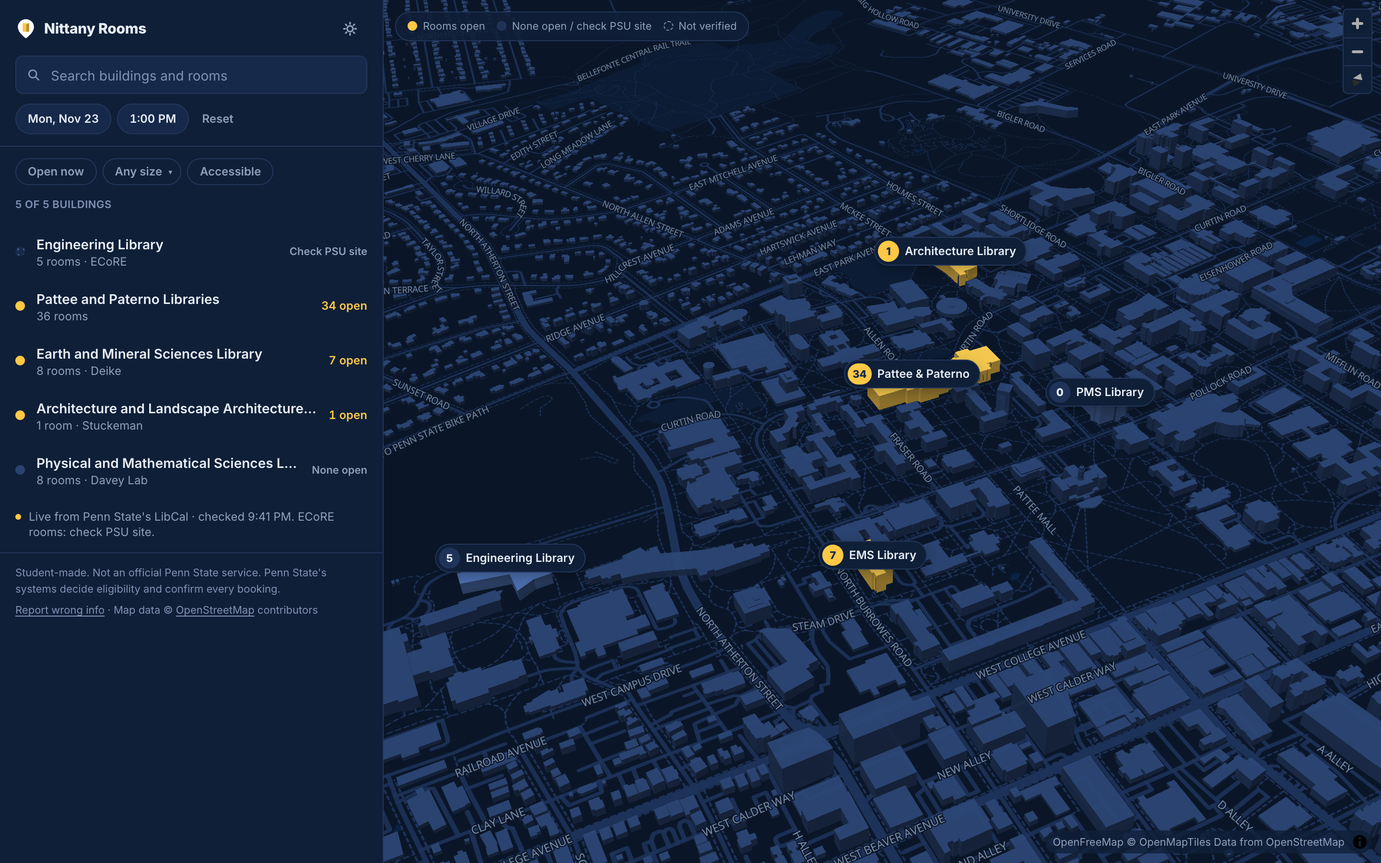
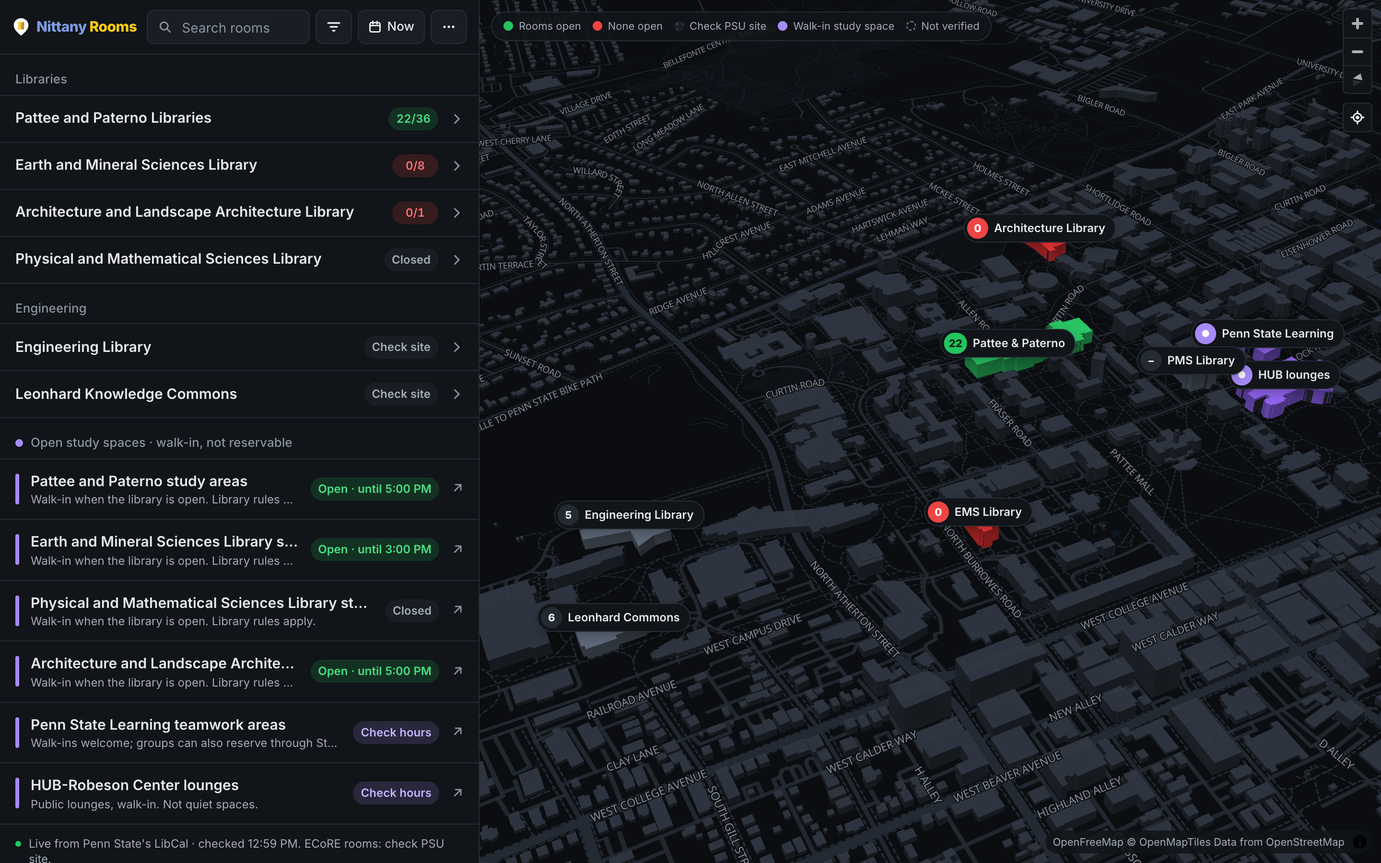
docs: feature tour README and re-rendered v2.1 design screenshots
- Root README: live link, feature tour with screenshots (map, building,
  room, near-me route, filters, date/time, settings, open study spaces,
  light/mobile), coverage table, CI/deploy notes, credits
- Design package: v2.1 sheet (green/red/grey/purple, blue/yellow
  accents, Inter) and 12 app screenshots at 2x with sample data,
  including new filters, date/time, route, settings and study-space
  views; tokens gain the purple study-space color

diff --git a/nittany-rooms-design/html/02-design-system.html b/nittany-rooms-design/html/02-design-system.html
@@ -1,45 +1,52 @@
 <!doctype html>
-<html lang="en" data-theme="dark">
+<html lang="en">
 <head>
 <meta charset="utf-8">
 <meta name="viewport" content="width=device-width, initial-scale=1">
-<title>Nittany Rooms design system v2</title>
+<title>Nittany Rooms design system v2.1</title>
 <style>
 @font-face{font-family:Inter;font-weight:100 900;src:url(../fonts/inter-latin-wght-normal.woff2) format('woff2')}
-:root{--bg:#0A1628;--surface:#0F1F38;--s2:#16294A;--s3:#1F3358;--line:#22365A;--fg:#E8EEF7;--muted:#8FA0BA;--subtle:#7E92B3;
---accent:#FFC845;--ink:#12284C;--accent-text:#FFC845;--accent-border:#FFC845;--occ:#2B4170;--occ-fg:#DCE4F2;--ha:#1F3358;--hb:#2B4170;--da:#3A5280;--db:#16294A;--now:#FF5C93}
-.light{--bg:#F5F7FA;--surface:#FFFFFF;--s2:#F0F3F7;--s3:#E4E9F0;--line:#DCE2EA;--fg:#12284C;--muted:#4F5B6E;--subtle:#5F6B7F;
---accent-text:#6B4700;--accent-border:#C99400;--occ:#12284C;--occ-fg:#FFFFFF;--ha:#E3E7ED;--hb:#CBD2DC;--da:#B8C1CE;--db:#EEF1F5;--now:#C2185B}
+:root{--bg:#0B0D10;--surface:#111418;--s2:#1A1E24;--s3:#242A32;--line:#262C34;--fg:#E7E9EC;--muted:#A3ACB8;--subtle:#8A94A1;
+--accent:#2563EB;--ink:#FFFFFF;--accent-text:#7AA7FF;--accent-soft:rgba(59,130,246,.14);--yellow:#FACC15;--soon:#FACC15;
+--open:#22C55E;--open-soft:rgba(34,197,94,.16);--open-text:#4ADE80;--busy:#EF4444;--busy-soft:rgba(239,68,68,.16);--busy-text:#F87171;
+--space:#A78BFA;--space-soft:rgba(167,139,250,.16);--space-text:#C4B5FD;
+--ha:#1A1E24;--hb:#262C34;--da:#3A414B;--db:#1A1E24;--navy:#7C9BE0;--gold:#FACC15}
+.light{--bg:#F6F7F9;--surface:#FFFFFF;--s2:#F1F3F5;--s3:#E5E8EC;--line:#E2E5E9;--fg:#111418;--muted:#4B5563;--subtle:#5F6874;
+--accent-text:#1D4ED8;--accent-soft:#E8EFFF;--yellow:#EAB308;--soon:#854D0E;--open:#16A34A;--open-soft:#DCFCE7;--open-text:#166534;
+--busy:#DC2626;--busy-soft:#FEE2E2;--busy-text:#991B1B;--space:#7C3AED;--space-soft:#EDE9FE;--space-text:#5B21B6;
+--ha:#ECEEF1;--hb:#D9DDE2;--da:#B9C0C9;--db:#F1F3F5;--navy:#12284C;--gold:#A16207}
 *{box-sizing:border-box}
 body{margin:0;background:var(--bg);color:var(--fg);font:400 14px/1.45 Inter,sans-serif;font-feature-settings:'cv11','ss03';-webkit-font-smoothing:antialiased}
 .wrap{max-width:1180px;margin:0 auto;padding:40px 24px 56px;display:grid;grid-template-columns:repeat(auto-fit,minmax(340px,1fr));gap:16px}
 .head{grid-column:1/-1;display:flex;align-items:center;gap:12px;margin-bottom:8px}
-.head h1{font-size:20px;font-weight:800;letter-spacing:-.01em;margin:0}
-.head p{margin:0;color:var(--muted);font-size:12px}
+.head h1{font-size:20px;font-weight:800;letter-spacing:-.02em;margin:0}
+.head p{margin:2px 0 0;color:var(--muted);font-size:12px}
 .card{background:var(--surface);border:1px solid var(--line);border-radius:12px;padding:20px}
 .card h2{margin:0 0 14px;font-size:11px;font-weight:600;letter-spacing:.04em;text-transform:uppercase;color:var(--subtle)}
-.sw{display:grid;grid-template-columns:repeat(4,1fr);gap:10px}
-.sw div{font-size:11px;color:var(--muted)} .sw span{display:block;height:40px;border-radius:8px;margin-bottom:6px;box-shadow:inset 0 0 0 1px var(--line)}
+.sw{display:grid;grid-template-columns:repeat(5,1fr);gap:10px}
+.sw div{font-size:11px;color:var(--muted)} .sw span{display:block;height:36px;border-radius:8px;margin-bottom:6px;box-shadow:inset 0 0 0 1px var(--line)}
 .sw b{display:block;color:var(--fg);font-weight:600;font-size:12px}
 .chip{display:inline-flex;align-items:center;gap:5px;height:24px;padding:0 9px;border-radius:999px;font:600 11px Inter;margin:0 6px 8px 0}
-.open{background:var(--accent);color:var(--ink)} .soon{border:1px dashed var(--accent-border);color:var(--accent-text)}
-.occ{background:var(--occ);color:var(--occ-fg)} .na{background:repeating-linear-gradient(135deg,var(--ha) 0 5px,var(--hb) 5px 7px)}
-.unk{background:radial-gradient(var(--da) 1px,var(--db) 1.5px) 0 0/6px 6px}
+.open{background:var(--open-soft);color:var(--open-text)} .soon{border:1px dashed var(--yellow);color:var(--soon)}
+.occ{background:var(--busy-soft);color:var(--busy-text)} .na{background:repeating-linear-gradient(135deg,var(--ha) 0 5px,var(--hb) 5px 7px)}
+.unk{background:radial-gradient(var(--da) 1px,var(--db) 1.5px) 0 0/6px 6px} .gray{background:var(--s2);color:var(--muted)}
+.space{background:var(--space-soft);color:var(--space-text)}
 .tl{position:relative;height:32px;border-radius:8px;background:var(--s2);overflow:hidden;display:flex}
 .tl i{display:block;height:100%}
 .ticks{display:flex;justify-content:space-between;font-size:11px;color:var(--subtle);margin-top:4px;font-variant-numeric:tabular-nums}
 .type div{display:flex;align-items:baseline;gap:14px;margin-bottom:10px} .type small{width:92px;flex:none;color:var(--subtle);font-size:11px}
-.pill{display:inline-flex;align-items:center;height:32px;padding:0 12px;border-radius:999px;background:var(--s2);border:1px solid var(--line);font:600 12px Inter;color:var(--fg);margin-right:6px}
-.input{height:40px;border-radius:8px;background:var(--s2);border:1px solid var(--line);color:var(--subtle);display:flex;align-items:center;padding:0 12px;margin:10px 0}
+.btn{display:inline-flex;align-items:center;gap:6px;height:36px;padding:0 10px;border-radius:8px;background:var(--s2);border:1px solid var(--line);font:500 13px Inter;color:var(--fg);margin-right:6px}
+.btn.on{border-color:#3B82F6;background:var(--accent-soft);color:var(--accent-text)}
+.input{height:36px;border-radius:8px;background:var(--s2);border:1px solid var(--line);color:var(--subtle);display:flex;align-items:center;padding:0 12px;margin-bottom:10px}
 .cta{height:44px;border-radius:8px;background:var(--accent);color:var(--ink);font:600 14px Inter;display:flex;align-items:center;justify-content:center;margin-top:10px}
-.row{display:block;padding:8px;border-radius:8px} .row:hover,.row.hl{background:var(--s2)}
-.row .top{display:flex;justify-content:space-between;align-items:center;margin-bottom:6px}
-.row b{font-weight:600} .row em{font-style:normal;color:var(--muted);font-size:12px;margin-left:8px}
-.mini{height:6px;border-radius:999px;background:var(--s2);overflow:hidden;display:flex} .mini i{display:block;height:100%}
+.row{display:flex;align-items:center;gap:10px;padding:11px 4px;border-bottom:1px solid var(--line)} .row b{flex:1;font-weight:600;font-size:15px}
+.badge{display:inline-flex;align-items:center;justify-content:center;min-width:48px;height:24px;padding:0 8px;border-radius:999px;font:600 12px Inter;font-variant-numeric:tabular-nums}
+.bar{width:4px;height:28px;border-radius:99px;background:var(--space)}
+.chev{color:var(--subtle)}
 .pin{display:inline-flex;align-items:center;gap:6px;height:28px;padding:0 10px 0 3px;border-radius:999px;background:var(--surface);box-shadow:0 0 0 1px var(--line),0 4px 14px rgb(0 0 0/.3);font:600 12px Inter;margin:0 8px 10px 0}
 .pin span{display:inline-grid;place-items:center;min-width:22px;height:22px;border-radius:999px;background:var(--s3);font-weight:800;font-size:11px}
-.pin.o span{background:var(--accent);color:var(--ink)} .pin.c{box-shadow:none;outline:1.5px dashed var(--subtle);outline-offset:-1.5px}
-.pin.sel{box-shadow:0 0 0 2px var(--accent)}
+.pin.o span{background:var(--open);color:#05230f} .pin.b span{background:var(--busy);color:#fff} .pin.c{box-shadow:none;outline:1.5px dashed var(--subtle);outline-offset:-1.5px}
+.route{height:6px;border-radius:99px;background:#3B82F6;box-shadow:0 0 0 2px var(--bg);margin:10px 0}
 .note{font-size:12px;color:var(--muted);margin:10px 0 0}
 .split{display:grid;grid-template-columns:1fr 1fr;gap:12px}
 .split > div{border-radius:10px;padding:14px;background:var(--bg);border:1px solid var(--line)}
@@ -49,22 +56,24 @@ body{margin:0;background:var(--bg);color:var(--fg);font:400 14px/1.45 Inter,sans
 <div class="wrap">
   <div class="head">
     <svg width="28" height="28" viewBox="0 0 64 64" aria-hidden="true"><path d="M32 3C18.2 3 7.5 13.6 7.5 27C7.5 44.5 32 61 32 61S56.5 44.5 56.5 27C56.5 13.6 45.8 3 32 3Z" fill="#fff"/><rect x="22" y="15" width="20" height="26" rx="2" fill="#FFC845"/><path d="M42 15L33 18.5V41H42Z" fill="#000" fill-opacity=".28"/></svg>
-    <div><h1>Nittany Rooms · design system v2</h1><p>Minimal, dark-first. Navy surfaces, one yellow accent, map as the canvas. Student-made, not an official Penn State service.</p></div>
+    <div><h1><span style="color:var(--navy)">Nittany</span> <span style="color:var(--gold)">Rooms</span> · design system v2.1</h1><p>Minimal and neutral. Green = open, red = occupied, grey = closed or unknown, purple = walk-in study space. Blue for actions, yellow for brand and “opens soon”. Student-made, not an official Penn State service.</p></div>
   </div>
 
-  <section class="card">
+  <section class="card" style="grid-column:1/-1">
     <h2>Color · dark (default)</h2>
     <div class="sw">
-      <div><span style="background:#0A1628"></span><b>bg</b>#0A1628</div>
-      <div><span style="background:#0F1F38"></span><b>surface</b>#0F1F38</div>
-      <div><span style="background:#16294A"></span><b>surface-2</b>#16294A</div>
-      <div><span style="background:#22365A"></span><b>line</b>#22365A</div>
-      <div><span style="background:#E8EEF7"></span><b>fg</b>#E8EEF7</div>
-      <div><span style="background:#8FA0BA"></span><b>muted</b>#8FA0BA</div>
-      <div><span style="background:#FFC845"></span><b>accent</b>#FFC845</div>
-      <div><span style="background:#2B4170"></span><b>occupied</b>#2B4170</div>
+      <div><span style="background:#0B0D10"></span><b>bg</b>#0B0D10</div>
+      <div><span style="background:#111418"></span><b>surface</b>#111418</div>
+      <div><span style="background:#1A1E24"></span><b>surface-2</b>#1A1E24</div>
+      <div><span style="background:#262C34"></span><b>line</b>#262C34</div>
+      <div><span style="background:#E7E9EC"></span><b>fg</b>#E7E9EC</div>
+      <div><span style="background:#22C55E"></span><b>open</b>#22C55E</div>
+      <div><span style="background:#EF4444"></span><b>busy</b>#EF4444</div>
+      <div><span style="background:#A78BFA"></span><b>space</b>#A78BFA</div>
+      <div><span style="background:#2563EB"></span><b>accent</b>#2563EB</div>
+      <div><span style="background:#FACC15"></span><b>yellow</b>#FACC15</div>
     </div>
-    <p class="note">Accent always carries navy (#12284C) text. The pink “now” marker (#FF5C93) is the only other hue.</p>
+    <p class="note">State colors carry meaning; blue and yellow are accents only. All text tokens meet WCAG AA (axe-checked in CI, dark and light).</p>
   </section>
 
   <section class="card">
@@ -72,53 +81,59 @@ body{margin:0;background:var(--bg);color:var(--fg);font:400 14px/1.45 Inter,sans
     <div class="type">
       <div><small>Title 20/600</small><span style="font-size:20px;font-weight:600">Paterno E128A</span></div>
       <div><small>Heading 18/600</small><span style="font-size:18px;font-weight:600">Pattee and Paterno Libraries</span></div>
-      <div><small>Row 14/600</small><span style="font-weight:600">W120 <em style="font-style:normal;color:var(--muted);font-size:12px;font-weight:400">Knowledge Commons · 12 seats</em></span></div>
-      <div><small>Small 12/400</small><span style="font-size:12px;color:var(--muted)">Live from Penn State's LibCal · checked 8:58 PM</span></div>
+      <div><small>Row 15/600</small><span style="font-size:15px;font-weight:600">W120 <span style="color:var(--muted);font-size:12px;font-weight:400">Knowledge Commons · 12 seats</span></span></div>
+      <div><small>Small 12/400</small><span style="font-size:12px;color:var(--muted)">Live from Penn State's LibCal · checked 12:59 PM</span></div>
       <div><small>Label 11/600</small><span style="font-size:11px;font-weight:600;letter-spacing:.04em;text-transform:uppercase;color:var(--subtle)">Open times you can book</span></div>
     </div>
   </section>
 
   <section class="card">
     <h2>Room states</h2>
-    <span class="chip open"><svg width="11" height="11" viewBox="0 0 16 16" fill="none" stroke="currentColor" stroke-width="1.8" aria-hidden="true"><path d="M3 14V2h7v12M10 3l3 1.5V14"/></svg> Open until 2:00 PM</span><span class="chip soon"><svg width="11" height="11" viewBox="0 0 16 16" fill="none" stroke="currentColor" stroke-width="1.8" aria-hidden="true"><circle cx="8" cy="8" r="6"/><path d="M8 4.5V8l2.5 1.5"/></svg> Opens 1:00</span><span class="chip occ"><svg width="11" height="11" viewBox="0 0 16 16" fill="none" stroke="currentColor" stroke-width="1.8" aria-hidden="true"><path d="M3 14V2h10v12M10 8.5h.5"/></svg> Occupied</span><span class="chip na"><svg width="11" height="11" viewBox="0 0 16 16" fill="none" stroke="currentColor" stroke-width="1.8" aria-hidden="true"><circle cx="8" cy="8" r="6"/><path d="M3.8 12.2l8.4-8.4"/></svg> Unavailable</span><span class="chip unk">? Check PSU site</span>
-    <p class="note">Fill or pattern, icon and word. Never color alone.</p>
+    <span class="chip open">Open until 2:00 PM</span><span class="chip soon">Opens 1:30</span><span class="chip occ">Occupied</span><span class="chip na">Unavailable</span><span class="chip unk">Check PSU site</span>
+    <p class="note">Each state has a fill or pattern, an icon and a word; never color alone.</p>
     <h2 style="margin-top:18px">Timeline</h2>
     <div class="tl">
-      <i style="flex:1" class="na"></i><i style="flex:5;background:var(--accent)"></i><i style="flex:.5;background:var(--s3)"></i><i style="flex:3;background:var(--occ)"></i><i style="flex:1" class="na"></i>
-      <b style="position:absolute;left:30%;top:0;bottom:0;width:2px;background:var(--now)"></b><b style="position:absolute;left:0;top:0;bottom:0;width:30%;background:rgb(10 22 40/.55)"></b>
+      <i style="flex:1" class="na"></i><i style="flex:2;background:var(--busy)"></i><i style="flex:3;background:var(--open)"></i><i style="flex:.4;background:var(--s3)"></i><i style="flex:3;background:var(--busy)"></i><i style="flex:1" class="na"></i>
+      <b style="position:absolute;left:44%;top:0;bottom:0;width:2px;background:var(--yellow)"></b><b style="position:absolute;left:0;top:0;bottom:0;width:44%;background:rgb(11 13 16/.55)"></b>
     </div>
     <div class="ticks"><span>8 AM</span><span>11 AM</span><span>2 PM</span><span>5 PM</span></div>
-    <p class="note">Past is dimmed; grey slot = gap shorter than the minimum, hidden from booking.</p>
   </section>
 
   <section class="card">
-    <h2>Controls</h2>
-    <div class="input">⌕&nbsp; Search buildings and rooms</div>
-    <span class="pill">Today</span><span class="pill">Now</span>
-    <div style="margin-top:10px"><span class="chip open" style="height:28px;padding:0 12px;font-size:12px">Open now</span><span class="chip" style="height:28px;padding:0 12px;font-size:12px;border:1px solid var(--line);color:var(--muted)">Any size ▾</span></div>
+    <h2>Header controls (one row)</h2>
+    <div class="input">⌕&nbsp; Search rooms</div>
+    <span class="btn on">☰ 2</span><span class="btn">▦ Now</span><span class="btn">···</span>
+    <p class="note">Filters, date/time and settings live in popovers.</p>
     <div class="cta">Continue to Penn State reservation ↗</div>
-    <p class="note">Honest booking language: never “Booked”.</p>
   </section>
 
   <section class="card">
-    <h2>List rows</h2>
-    <div class="row hl"><div class="top"><span><b>W120</b><em>Knowledge Commons · 12 seats</em></span><span class="chip open" style="margin:0">Open</span></div>
-      <div class="mini"><i style="flex:2;background:var(--accent)"></i><i style="flex:1;background:var(--occ)"></i><i style="flex:3;background:var(--accent)"></i></div></div>
-    <div class="row"><div class="top"><span><b>W101B</b><em>Leisure Reading Room · 4 seats</em></span><span class="chip occ" style="margin:0">Occupied</span></div>
-      <div class="mini"><i style="flex:1;background:var(--accent)"></i><i style="flex:4;background:var(--occ)"></i><i style="flex:1;background:var(--accent)"></i></div></div>
+    <h2>Building list</h2>
+    <div class="row"><b>Pattee and Paterno Libraries</b><span class="badge open">34/36</span><span class="chev">›</span></div>
+    <div class="row"><b>Earth and Mineral Sciences Library</b><span class="badge occ">0/8</span><span class="chev">›</span></div>
+    <div class="row"><b>Physical and Mathematical Sciences Library</b><span class="badge gray">Closed</span><span class="chev">›</span></div>
+    <div class="row" style="border:0"><b>Engineering Library</b><span class="badge gray">Check site</span><span class="chev">›</span></div>
   </section>
 
   <section class="card">
-    <h2>Map pins (3D map)</h2>
-    <span class="pin o"><span>34</span>Pattee &amp; Paterno</span><span class="pin o sel"><span>7</span>EMS Library</span><span class="pin"><span>5</span>Engineering Library</span><span class="pin c"><span>?</span>Not verified</span>
-    <p class="note">Buildings with rooms open are extruded in accent yellow from OSM footprints; others in muted blue. The camera pitches ~52° over campus and flies to ~60° into a building.</p>
+    <h2>Open study spaces (walk-in)</h2>
+    <div class="row"><span class="bar"></span><b>Pattee and Paterno study areas</b><span class="badge open">Open · until 5:00 PM</span></div>
+    <div class="row"><span class="bar"></span><b>PMS Library study areas</b><span class="badge gray">Closed · opens 9:00 AM</span></div>
+    <div class="row" style="border:0"><span class="bar"></span><b>HUB-Robeson Center lounges</b><span class="badge space">Check hours</span></div>
+  </section>
+
+  <section class="card">
+    <h2>Map pins and route</h2>
+    <span class="pin o"><span>34</span>Pattee &amp; Paterno</span><span class="pin b"><span>0</span>EMS Library</span><span class="pin"><span>–</span>PMS Library</span><span class="pin c"><span>?</span>Not verified</span>
+    <div class="route"></div>
+    <p class="note">3D OpenFreeMap campus; reservable buildings extruded green (open), red (none open) or grey (closed/unknown). Walking routes draw in blue from the “you are here” dot.</p>
   </section>
 
   <section class="card" style="grid-column:1/-1">
     <h2>Dark and light</h2>
     <div class="split">
-      <div><span class="chip open">Open</span><span class="chip soon">Opens 1:00</span><span class="chip occ">Occupied</span><div class="cta">Continue to Penn State reservation ↗</div></div>
-      <div class="light" style="background:var(--bg);color:var(--fg)"><span class="chip open">Open</span><span class="chip soon">Opens 1:00</span><span class="chip occ">Occupied</span><div class="cta">Continue to Penn State reservation ↗</div></div>
+      <div><span class="chip open">Open</span><span class="chip soon">Opens 1:30</span><span class="chip occ">Occupied</span><span class="chip gray">Closed</span><span class="chip space">Check hours</span><div class="cta">Continue to Penn State reservation ↗</div></div>
+      <div class="light" style="background:var(--bg);color:var(--fg)"><span class="chip open">Open</span><span class="chip soon">Opens 1:30</span><span class="chip occ">Occupied</span><span class="chip gray">Closed</span><span class="chip space">Check hours</span><div class="cta">Continue to Penn State reservation ↗</div></div>
     </div>
   </section>
 </div>

diff --git a/README.md b/README.md
@@ -1,24 +1,81 @@
 # Nittany Rooms
 
-A visual study-room finder for **Penn State University Park**. You go from the campus map to a building, then a floor, a room, an open time window, and finally the **official Penn State reservation page**.
+A visual study-room finder for **Penn State University Park**. Pick a building on a 3D campus map, see which rooms are open right now and for how long, and continue to the **official Penn State reservation page** for that exact room.
+
+**Live:** https://nittanyrooms.vercel.app
 
 > **Student-made. Not an official Penn State service.** Nittany Rooms does not make reservations. Penn State's own systems decide who can book and confirm every booking.
 
-## Status
+![Nittany Rooms: 3D campus map with buildings colored by availability, and the building list](nittany-rooms-design/png/03-desktop-campus-dark.png)
 
-Early development. See [docs/PROJECT_PLAN.md](docs/PROJECT_PLAN.md) for milestones and
-[docs/research/KNOWN_LIMITATIONS.md](docs/research/KNOWN_LIMITATIONS.md) for what is and is not verified.
+## What it does
+
+### Live availability on a 3D campus map
+
+Buildings with reservable rooms are drawn from their OpenStreetMap outlines and colored by what's free at the selected time: **green** = rooms open, **red** = none open, **grey** = closed or can't be checked, **purple** = walk-in study space. The list groups Libraries, Engineering, and open study spaces, with one badge per building (`22/36`, `0/8`, `Closed`, `Check site`).
+
+Library availability is live from Penn State's public LibCal, refreshed every 3 minutes.
+
+### From building to room to booking
+
+| Building | Room |
+|---|---|
+| ![Building view: rooms by floor with status and a mini timeline each](nittany-rooms-design/png/04-desktop-building-dark.png) | ![Room view: day timeline, bookable windows, and the official booking button](nittany-rooms-design/png/05-desktop-room-dark.png) |
+
+Choosing a building flies the camera in and lists its rooms by floor, each with a status chip and a mini day timeline. A room shows its features and capacity, a timeline for the day, the windows you can actually book (gaps too short to book are hidden), and **Continue to Penn State reservation**. That button goes straight to the room's LibCal page, or to Outlook with step-by-step instructions for College of Engineering rooms.
+
+### Closest room and a walking route
+
+![Near me: closest building card and an animated walking route on the map](nittany-rooms-design/png/11-desktop-near-me-route.png)
+
+**Near me** sorts buildings by walking distance and shows the closest one, plus the closest with a room open now. **Show walking route** draws an animated path from your location. It asks before sending your location to the OpenStreetMap routing service (FOSSGIS OSRM).
+
+### Filters, time travel, and settings
+
+| Filters | Date and time | Settings |
+|---|---|---|
+| ![Filters: open now, accessible, free until, available for at least, group size, sort by distance](nittany-rooms-design/png/09-desktop-filters.png) | ![Date and time picker: next 15 days and half-hour times](nittany-rooms-design/png/10-desktop-date-time.png) | ![Settings: appearance, important notes, data updates, GitHub](nittany-rooms-design/png/12-desktop-settings.png) |
+
+- **Filters:** Open now, Accessible, **Free until**, **Available for at least**, group size, sort by distance.
+- **Date and time:** check any time in Penn State's two-week booking window.
+- **Settings (⋯):** Appearance (Light / Dark / Auto), Important notes on how data is sourced, Data updates, View on GitHub.
+
+### Open study spaces
+
+![Open study spaces: library study areas with live hours, plus HUB and Penn State Learning](nittany-rooms-design/png/13-desktop-open-study-spaces.png)
+
+Walk-in spaces that don't need a reservation. Library study areas show live open or closed status. Spaces without published weekly hours, like the HUB lounges and Penn State Learning, say **Check hours** and link to the official page.
+
+### Light mode and phones
+
+| Light | Phone | Phone room |
+|---|---|---|
+| ![Light theme](nittany-rooms-design/png/06-desktop-campus-light.png) | ![Phone: map with bottom sheet](nittany-rooms-design/png/07-mobile-campus-dark.png) | ![Phone: room details](nittany-rooms-design/png/08-mobile-room-dark.png) |
+
+> Screenshots use **sample availability** (Mon Nov 23, 1:00 PM) so every state is visible; the live site shows real data.
+
+## Coverage
+
+| Where | Rooms | Booking | Availability |
+|---|---|---|---|
+| Pattee and Paterno, EMS (Deike), PMS (Davey), Architecture (Stuckeman) libraries | 53 | LibCal, direct room links | Live |
+| Engineering Library (ECoRE) | 5 | Outlook (College of Engineering) | Check on PSU site |
+| Leonhard Knowledge Commons | 6 (105A–F) | Outlook (College of Engineering) | Check on PSU site |
+| Open study spaces | 6 | Walk-in | Library hours live; others "Check hours" |
+
+Campus-wide classroom availability (classes, events, and building hours, like illiniSpots) is waiting on Penn State's permission. See [docs/research/SOURCE_INVENTORY.md](docs/research/SOURCE_INVENTORY.md) §9.
 
 ## Repository layout
 
 | Path | Purpose |
 |---|---|
-| `apps/web/` | React + TypeScript + Vite front end: campus map, building/floor view, room timeline, booking handoff |
-| `apps/web/api/` | Vercel Functions: `GET /api/availability?date=` (live LibCal availability) |
-| `packages/core/` | Shared types, data schemas, the availability engine (pure functions), and data-quality checks |
-| `data/` | Building, room, provider and source records, each with provenance and verification status |
+| `apps/web/` | React + TypeScript + Vite app: 3D map (MapLibre + OpenFreeMap), sidebar, room timeline, booking handoff |
+| `apps/web/api/` | Vercel Function `GET /api/availability?date=` (live LibCal availability, CDN-cached) |
+| `apps/web/e2e/` | Playwright end-to-end tests (mocked API, keyboard, mobile, axe accessibility) |
+| `packages/core/` | Shared schemas, the availability engine (pure functions), data-quality checks, LibCal ingestion |
+| `data/` | Buildings, rooms, providers, policies, open spaces, and footprints, each with sources and verification dates |
 | `docs/` | Plan, architecture, research, source inventory, known limitations |
-| `nittany-rooms-design/` | Design package: logo, tokens, mockups, Overpass fonts. Source of truth for the UI. |
+| `nittany-rooms-design/` | Design system v2.1: tokens, design sheet, screenshots, logo, Inter font |
 
 ## Getting started
 
@@ -26,27 +83,26 @@ Requires Node 22+ and pnpm 10.
 
 ```sh
 pnpm install
-pnpm validate:data   # run data-quality checks on data/
-pnpm test            # unit tests (availability engine, data validation)
-pnpm dev             # start the web app (also serves /api locally)
+pnpm validate:data   # data-quality gate
+pnpm test            # unit tests
+pnpm e2e             # build + Playwright end-to-end tests
+pnpm dev             # web app (also serves /api locally)
 ```
 
-Server env vars (Vercel project settings; see `apps/web/.env.example`): `LIBCAL_LIVE=off` disables live library availability, and `LIBCAL_USER_AGENT` sets the identifier sent to LibCal.
+Server env vars (Vercel; see `apps/web/.env.example`): `LIBCAL_LIVE=off` disables live library availability, and `LIBCAL_USER_AGENT` sets the identifier sent to LibCal.
 
-## Deploying to Vercel
-
-Import the repo, set **Root Directory** to `apps/web`, and keep the detected Vite settings (`vercel.json` supplies the build command, rewrites, and headers).
+CI (GitHub Actions) runs the data gate, typecheck, unit tests, build, and end-to-end tests on every push. Vercel deploys `main` automatically (Root Directory: `apps/web`).
 
 ## Data rules
 
 - Never invent buildings, rooms, coordinates, floor layouts, booking URLs, hours, or availability.
 - Every record carries its source, its verification date, and a confidence status.
-- If availability can't be verified, it's shown as **"Check on PSU site"**, never as "free".
-- Library availability is read live from Penn State's public LibCal pages and cached briefly. Penn State's booking page is always the final word.
+- If availability can't be verified, it's shown as **"Check PSU site"** (or "Check hours"), never as free.
+- Penn State's booking page always has the final say.
 
-## Map data
+## Credits
 
-Building coordinates come from © [OpenStreetMap](https://www.openstreetmap.org/copyright) contributors (ODbL).
+Map data © [OpenStreetMap](https://www.openstreetmap.org/copyright) contributors (ODbL), tiles by [OpenFreeMap](https://openfreemap.org), and walking routes by [FOSSGIS OSRM](https://routing.openstreetmap.de/about.html). The illiniSpots architecture (UIUC) inspired the approach. No code was copied.
 
 ## License
 

diff --git a/nittany-rooms-design/README.md b/nittany-rooms-design/README.md
@@ -2,7 +2,7 @@
 
 The design language for Nittany Rooms, a student-made web app for finding and reserving study rooms at Penn State University Park. It is not an official Penn State service.
 
-**v2.1 is minimal and neutral.** Dark and light gray surfaces, **green = open/available, red = occupied/not available**, and blue (actions, selection) and yellow (brand, “opens soon”) as accents only. Appearance can be Light, Dark (default) or Auto. The 3D campus map is the canvas, and a quiet sidebar or bottom sheet holds the content. The palette is navy surfaces with a single yellow accent. v1, the original mockups, is kept in [`v1/`](v1/) for reference.
+**v2.1 is minimal and neutral.** Dark and light gray surfaces, **green = open/available, red = occupied/not available, grey = closed/unknown, purple = walk-in study space**, and blue (actions, selection) and yellow (brand, “opens soon”) as accents only. Appearance can be Light, Dark (default) or Auto. The 3D campus map is the canvas, and a quiet sidebar or bottom sheet holds the content. The palette is navy surfaces with a single yellow accent. v1, the original mockups, is kept in [`v1/`](v1/) for reference.
 
 ## What's in here
 
@@ -15,15 +15,19 @@ The design language for Nittany Rooms, a student-made web app for finding and re
 | `fonts/` | **Inter** variable (`inter-latin-wght-normal.woff2`, weights 100–900, SIL OFL), the v2 typeface. Overpass files remain only for the archived v1 mockups |
 | `v1/` | Original v1 mockups, tokens and canvas sources (superseded) |
 
-Screens in `png/`:
+Screens in `png/` (2x, real app, **sample availability** at Mon Nov 23, 1:00 PM so every state shows):
 
-1. `02-design-system`: tokens, room states, timeline, controls, rows, map pins, dark vs light
-2. `03-desktop-campus-dark`: home, 3D campus with buildings that have reservable rooms
-3. `04-desktop-building-dark`: building view, floor tabs, rooms with mini timelines
-4. `05-desktop-room-dark`: room view, live timeline, bookable windows, official handoff
+1. `02-design-system`: tokens, room states, timeline, header controls, building list, open study spaces, map pins and route, dark vs light
+2. `03-desktop-campus-dark`: 3D campus, grouped building list, open study spaces
+3. `04-desktop-building-dark`: rooms by floor with status chips and mini timelines
+4. `05-desktop-room-dark`: room timeline, bookable windows, official handoff
 5. `06-desktop-campus-light`: light theme
-6. `07-mobile-campus-dark`: phone, map with bottom sheet
-7. `08-mobile-room-dark`: phone, room details in the expanded sheet
+6. `07-mobile-campus-dark` / `08-mobile-room-dark`: phone bottom sheet
+7. `09-desktop-filters`: filters popover (open now, accessible, free until, available for at least, size, distance)
+8. `10-desktop-date-time`: custom date and time picker
+9. `11-desktop-near-me-route`: closest building and animated walking route
+10. `12-desktop-settings`: ⋯ menu with Appearance, Important notes, Data updates, GitHub
+11. `13-desktop-open-study-spaces`: walk-in spaces with live library hours and purple "Check hours"
 
 The code is the source of truth. Tokens are implemented in `apps/web/src/index.css` as `--nr-*` CSS variables, exposed to Tailwind as semantic colors (`bg`, `surface`, `fg`, `muted`, `accent`, …).
 
@@ -59,4 +63,3 @@ The code is the source of truth. Tokens are implemented in `apps/web/src/index.c
 
 Map data © OpenStreetMap contributors (ODbL). Tiles from OpenFreeMap.
 
-> Screenshots in `png/` show the v2.0 navy palette; tokens.json (v2.1) is current. Re-render them with the app when convenient.
